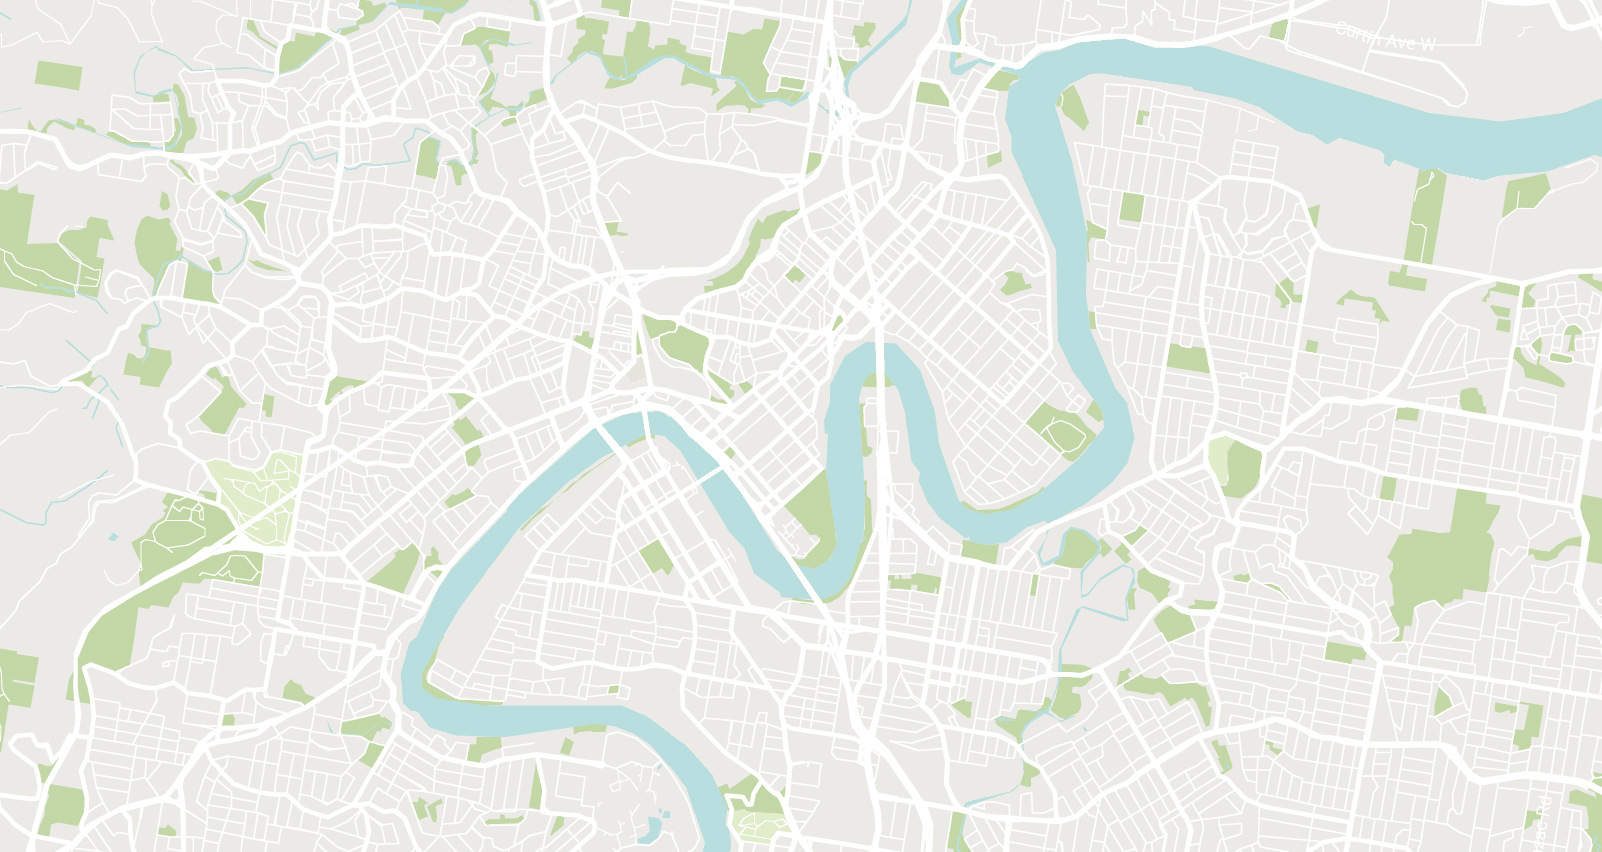
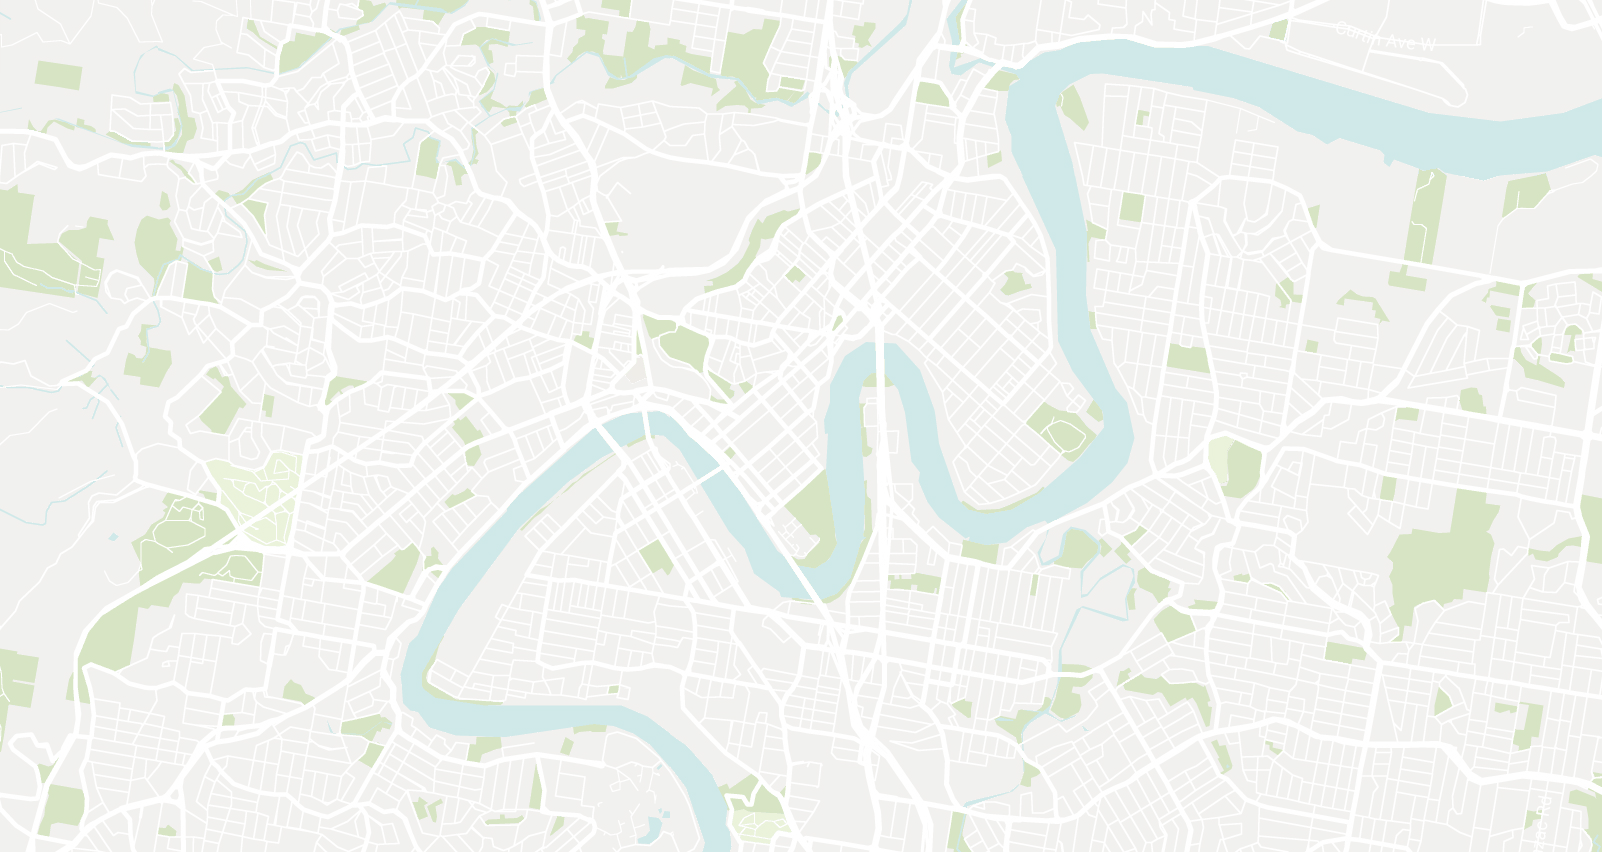
Updated background image and stylesheet.css.

diff --git a/stylesheet.css b/stylesheet.css
@@ -202,7 +202,7 @@ td {
 
 /*HOME PAGE*/
 #homePage {
-    background-image: url("graphics/bg2.jpg");
+    background-image: url("graphics/bg2.png");
     background-repeat: no-repeat;
     background-position: right top;
     background-attachment: fixed;
